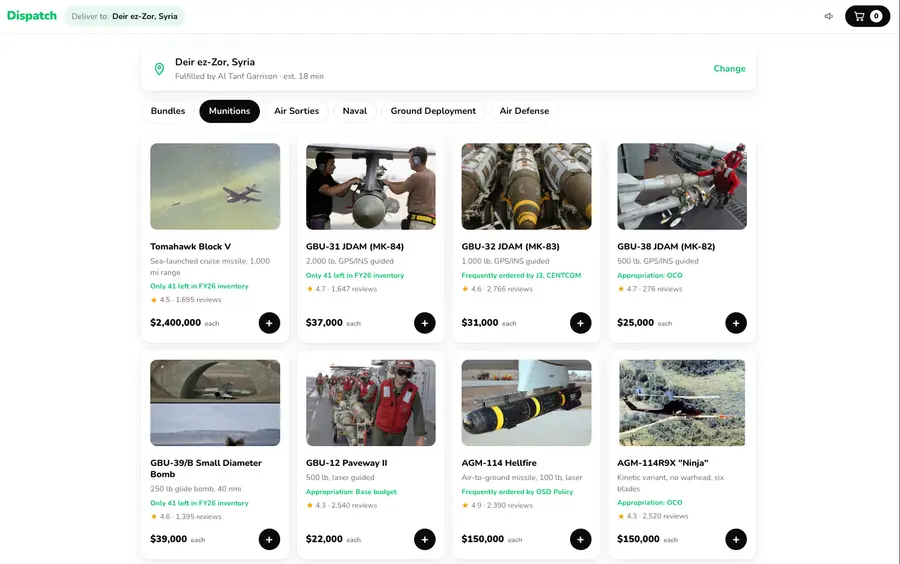
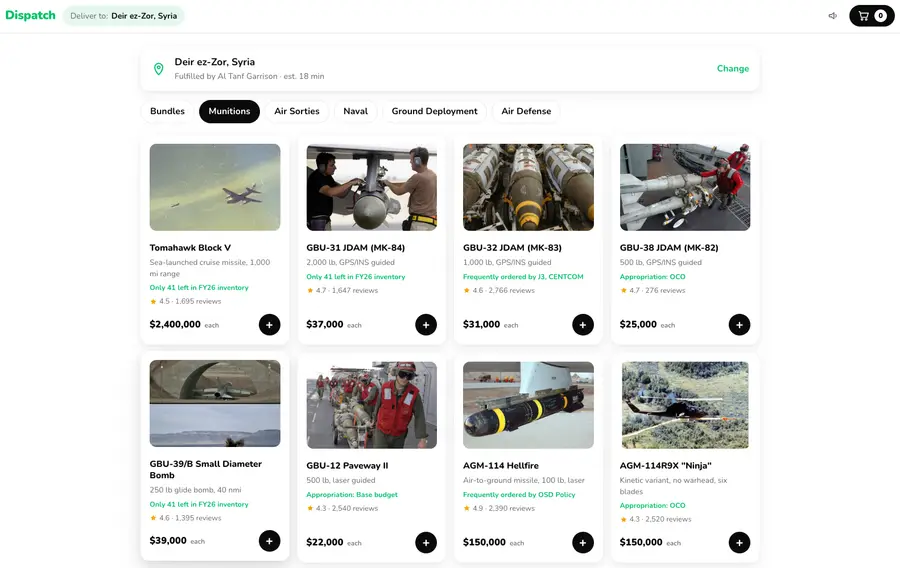
Give Dispatch a year and a hover blurb
A description would make isLinkOnly() false and swallow the outward
link, so the hover text rides on a new blurb field instead. It renders
into the caption on hover and feeds the SEO description.

diff --git a/dispatch/index.html b/dispatch/index.html
@@ -55,7 +55,7 @@
     "@id": "https://paul.place#paulhanna"
   },
   "inLanguage": "en",
-  "description": "Web art",
+  "description": "Web art · 2026",
   "image": "https://paul.place/images/works/dispatch.png"
 }
 </script>
@@ -85,14 +85,14 @@
   ]
 }
 </script>
-<meta name="description" content="Web art">
+<meta name="description" content="A dopamine site for members of the US Military.">
 <meta name="author" content="Paul Hanna">
 <meta name="theme-color" content="#F8F7F4">
 <meta name="robots" content="index, follow">
 <link rel="canonical" href="https://paul.place/dispatch">
 <link rel="alternate" type="application/rss+xml" title="Paul Hanna — Journal" href="https://paul.place/feed.xml">
 <meta property="og:title" content="Dispatch — Paul Hanna">
-<meta property="og:description" content="Web art">
+<meta property="og:description" content="A dopamine site for members of the US Military.">
 <meta property="og:type" content="article">
 <meta property="og:url" content="https://paul.place/dispatch">
 <meta property="og:site_name" content="paul.place">
@@ -103,7 +103,7 @@
 <meta property="og:image:height" content="630">
 <meta name="twitter:card" content="summary_large_image">
 <meta name="twitter:title" content="Dispatch — Paul Hanna">
-<meta name="twitter:description" content="Web art">
+<meta name="twitter:description" content="A dopamine site for members of the US Military.">
 <meta name="twitter:image" content="https://paul.place/images/works/dispatch.png">
 <meta name="twitter:site" content="@paullhanna">
 <meta name="twitter:creator" content="@paullhanna">
@@ -114,8 +114,9 @@
 <noscript>
 <div style="max-width:680px;margin:2rem auto;padding:1rem;font-family:system-ui,sans-serif;color:#1a1a1a">
 <h1>Dispatch</h1>
-<p><em>Web art</em></p>
+<p><em>Web art · 2026</em></p>
 <img src="images/works/dispatch.png" alt="Dispatch" style="max-width:100%;height:auto">
+<p>A dopamine site for members of the US Military.</p>
 <p><a href="https://paul.tube/dispatch">View →</a></p>
 
 <hr style="margin:2rem 0;border:none;border-top:1px solid #ccc">

diff --git a/js/main.js b/js/main.js
@@ -211,7 +211,9 @@ const sections = {
       {
         title: 'Dispatch',
         tags: ['Interactive/Web Art'],
-        sub: 'Web art',
+        sub: 'Web art · 2026',
+        year: 2026,
+        blurb: 'A dopamine site for members of the US Military.',
         link: 'https://paul.tube/dispatch',
         linkLabel: 'View',
         image: 'images/works/dispatch.png',
@@ -1675,6 +1677,14 @@ function buildMmView() {
   });
 }
 
+// link-only works never open a detail pane, so their blurb rides along with the hover preview
+function mmBlurbHtml(item) {
+  if (!item.blurb) return '';
+  let html = `<div class="film-caption-title">${item.title}</div>`;
+  if (item.sub) html += `<div class="film-caption-meta">${item.sub}</div>`;
+  return html + `<div class="film-caption-desc">${item.blurb}</div>`;
+}
+
 async function mmShowPreview(idx) {
   const item = mmItems()[idx];
   const src = item && mmPreviewSrc(item);
@@ -1682,6 +1692,7 @@ async function mmShowPreview(idx) {
   mmGridEl.querySelectorAll('.mm-tile').forEach(el =>
     el.classList.toggle('current', parseInt(el.dataset.idx) === idx));
   if (mmDetailIdx !== null) return;
+  mmCaptionEl.innerHTML = mmBlurbHtml(item);
   const token = ++mmPreviewToken;
   const img = preloadImage(src);
   try { if (img.decode) await img.decode(); } catch (e) { /* paint whenever ready */ }

diff --git a/build-seo.js b/build-seo.js
@@ -92,6 +92,7 @@ function esc(str) {
 function getDescription(item) {
   if (item.description) return truncate(stripHtml(stripContactParagraph(item.description)), 160);
   if (item.body) return truncate(stripHtml(stripContactParagraph(item.body)), 160);
+  if (item.blurb) return item.blurb;
   if (item.sub) return item.sub;
   return 'By Paul Hanna — director, writer, artist based in NYC.';
 }
@@ -352,6 +353,7 @@ for (const [slug, entry] of Object.entries(slugMap)) {
   if (item.sub) nsc += `<p><em>${esc(item.sub)}</em></p>\n`;
   if (item.image) nsc += `<img src="${item.image}" alt="${esc(item.title)}" style="max-width:100%;height:auto">\n`;
   if (item.description) nsc += `<p>${item.description}</p>\n`;
+  else if (item.blurb) nsc += `<p>${esc(item.blurb)}</p>\n`;
   if (item.body) {
     if (item.bodyType === 'poetry') {
       nsc += `<pre style="white-space:pre-wrap;font-family:system-ui,sans-serif">${esc(item.body)}</pre>\n`;

diff --git a/multimedia/index.html b/multimedia/index.html
@@ -181,7 +181,7 @@
 <p>Experimental video, web art, installation, and interactive work.</p>
 <ul>
 <li><a href="/placement">Placement</a> — ITP Thesis · 2026</li>
-<li><a href="/dispatch">Dispatch</a> — Web art</li>
+<li><a href="/dispatch">Dispatch</a> — Web art · 2026</li>
 <li><a href="/waiting-leaving">Waiting, Leaving</a> — Web art</li>
 <li><a href="/notes-from-underground">Notes from Underground</a> — Web art</li>
 <li><a href="/disposal">Disposal</a> — Paul Hanna &amp; Maya Castronovo · 2024</li>
